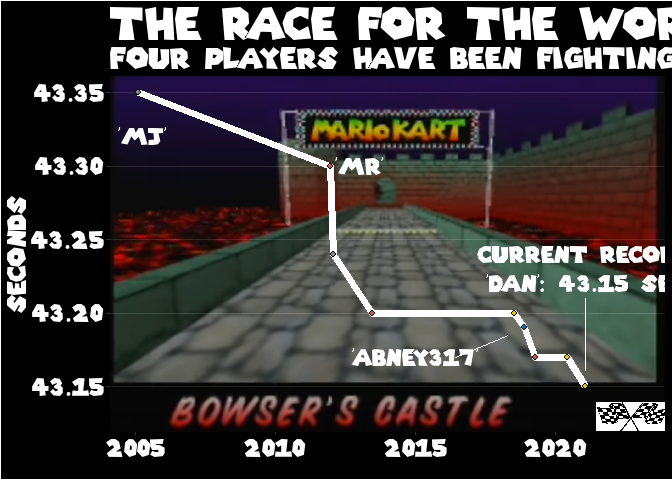
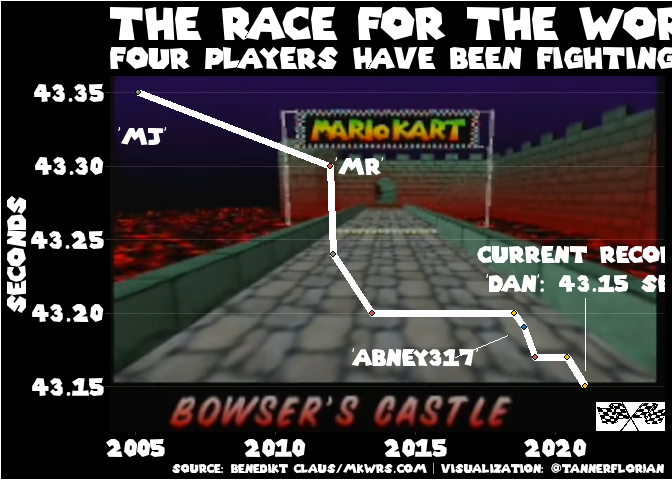
Add credit

Changed region(s): [[0.25, 0.9688, 1.0, 1.0]]

diff --git a/2021-05-25 Mario Kart World Records/2021-05-25-Mario-Kart-World-Records.md b/2021-05-25 Mario Kart World Records/2021-05-25-Mario-Kart-World-Records.md
@@ -250,7 +250,8 @@ p <- ds %>%
   annotate(geom = "text", x =  as.Date("2013-01-01"), 
            y = 43.30, label = "'MR'",
            color = "white", family = mk_font, size = 6) +
-  mk64_theme 
+  mk64_theme + 
+  labs(caption = "Source: Benedikt Claus/mkwrs.com | Visualization: @TannerFlorian")
 p
 ```
 
